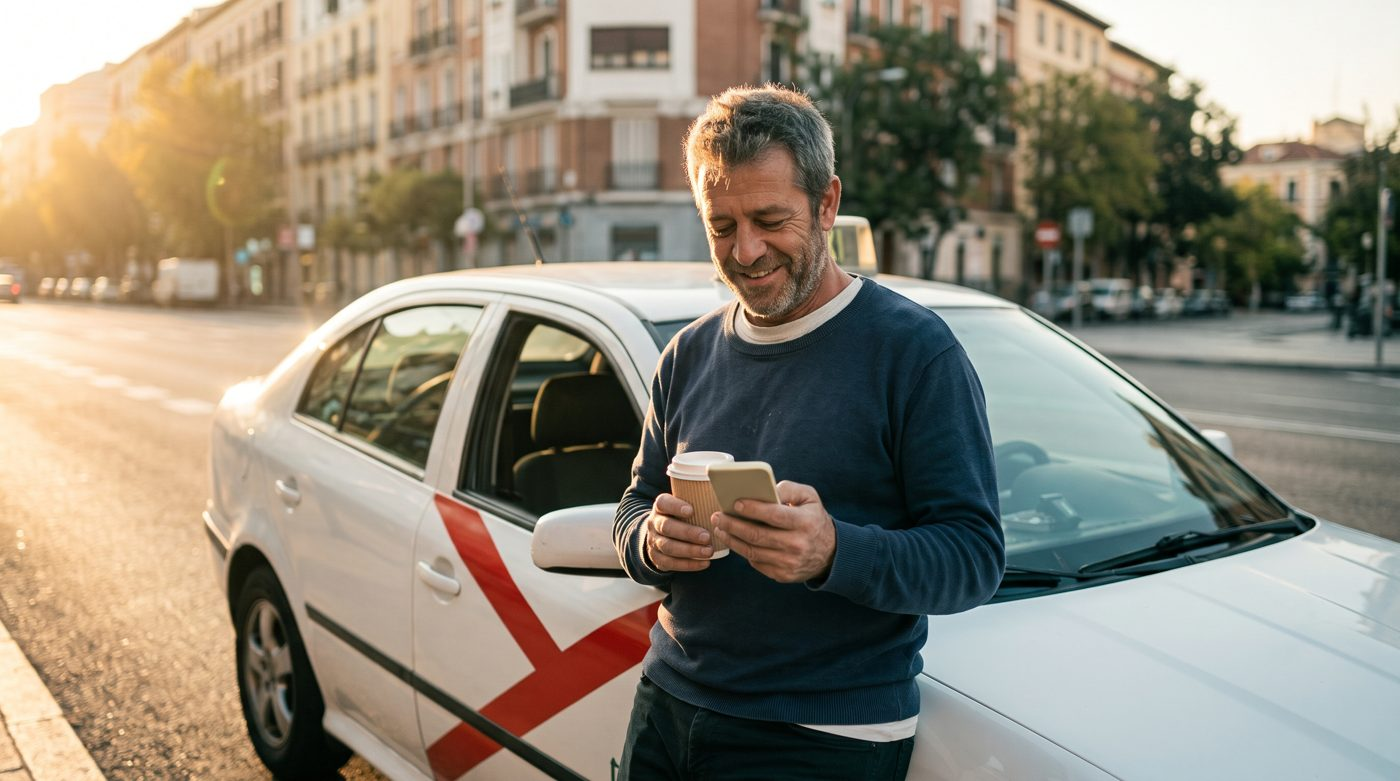
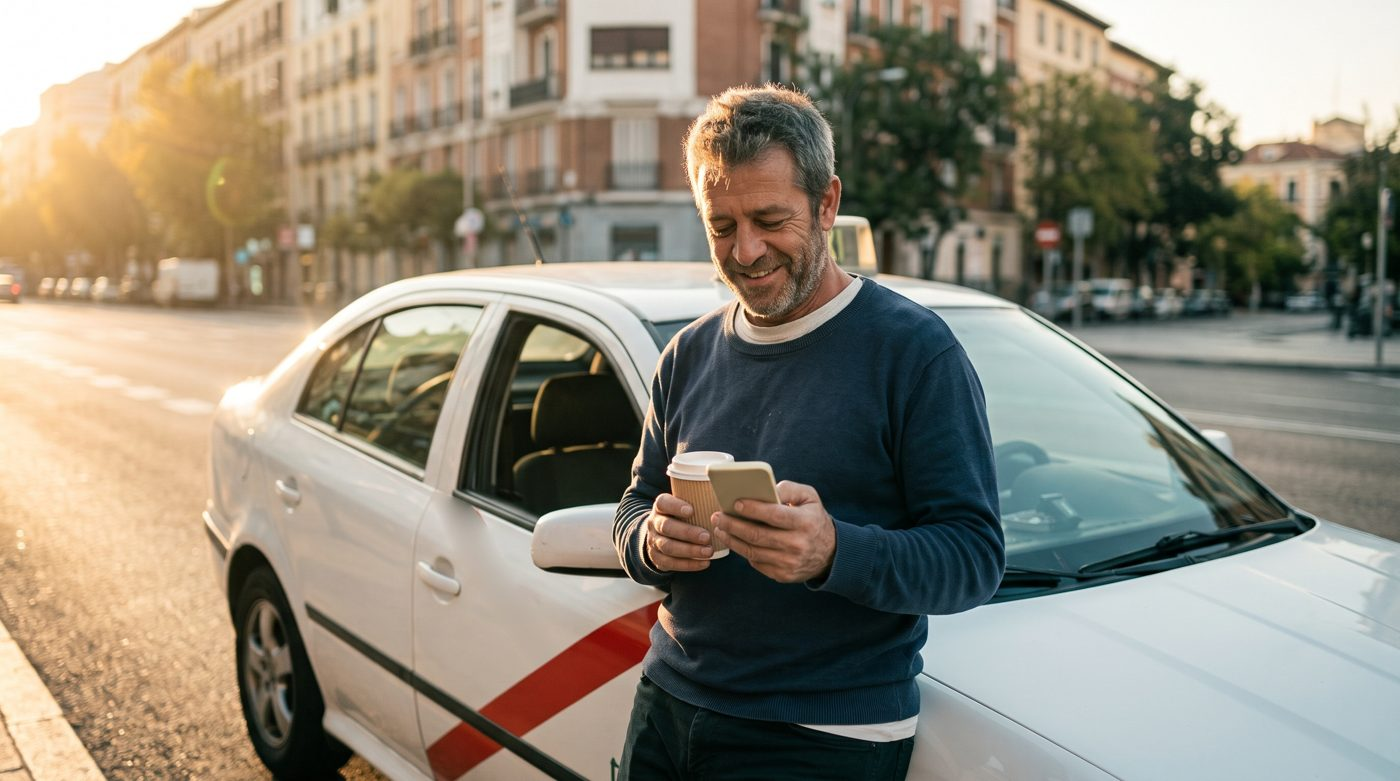
Historia de Pablo más breve, franja del taxi corregida y eslogan sin punto final

Changed region(s): [[0.3071, 0.6146, 0.3993, 0.8604]]

diff --git a/src/pages/Landing.tsx b/src/pages/Landing.tsx
@@ -178,11 +178,8 @@ function Story({ kept }: { kept: number }) {
             El problema
           </p>
           <p className="mt-5 text-lg leading-relaxed text-ink-2">
-            Son las 23:00 y Pablo ha cobrado <strong className="text-ink">180 €</strong>. Pero no sabe cuánto es suyo: mañana tocan
-            gasolina, seguro, taller y la cuota de autónomos, y cada trimestre llega Hacienda.
-          </p>
-          <p className="mt-4 text-lg leading-relaxed text-ink-2">
-            Trabaja más horas que nunca y sigue sin saber <strong className="text-ink">si le compensa</strong>.
+            Cobra <strong className="text-ink">180 €</strong> en diez horas, pero aún faltan gasolina, autónomos y Hacienda.
+            ¿Le <strong className="text-ink">compensa</strong>?
           </p>
         </article>
 
@@ -193,11 +190,8 @@ function Story({ kept }: { kept: number }) {
             La solución
           </p>
           <p className="mt-5 text-lg leading-relaxed text-white/80">
-            Al cerrar el turno apunta su jornada en <strong className="text-white">NetTime</strong> en unos segundos y ve lo que le queda
-            de verdad: <strong className="figure text-mint">{eur(kept)} por hora</strong>.
-          </p>
-          <p className="mt-4 text-lg leading-relaxed text-white/80">
-            Aparta lo de Hacienda cada día y sabe qué turnos le rinden. <strong className="text-white">Trabaja mejor, no más.</strong>
+            Apunta el turno en segundos y ve lo que le queda: <strong className="figure text-mint">{eur(kept)} por hora</strong>.{' '}
+            <strong className="text-white">Trabaja mejor, no más.</strong>
           </p>
         </article>
       </div>
@@ -333,7 +327,7 @@ export default function Landing() {
             <div className="reveal">
               <Eyebrow light>Taxi · VTC · Transporte · Oficios</Eyebrow>
               <h1 className="mt-5 text-[2.9rem] leading-[1.02] font-semibold sm:text-6xl lg:text-7xl">
-                Deja de trabajar<br /><span className="text-mint">a ciegas.</span>
+                Deja de trabajar<br /><span className="text-mint">a ciegas</span>
               </h1>
               <p className="mt-6 max-w-md text-xl leading-relaxed text-white/75">Tu neto real por hora, en segundos.</p>
               <div className="mt-9 flex flex-wrap items-center gap-3">

diff --git a/src/components/Presenter.tsx b/src/components/Presenter.tsx
@@ -60,7 +60,7 @@ const STEPS: Step[] = [
   { title: 'Registra su jornada', caption: 'Pulsa «Registrar jornada»: horas, descanso y los movimientos de ese turno.', after: 'Con las horas trabajadas, NetTime ya sabe cuánto le queda por cada hora.', route: 'resumen', highlight: 'hero', actions: 3, animate: 'shift' },
   { title: '¿Cuánto apartar para Hacienda?', caption: 'La hucha suma el IVA cobrado y la reserva de IRPF, y le dice cuánto le falta por apartar.', route: 'impuestos', highlight: 'hucha', actions: 3 },
   { title: '¿Cuándo le compensa trabajar?', caption: 'Compara sus propias jornadas por día y franja horaria. Sin predicciones inventadas: solo sus datos.', route: 'rentabilidad', highlight: 'insights', actions: 3 },
-  { title: 'Deja de trabajar a ciegas.', caption: 'Mirad vuestro correo: tenéis la demo para usarla cuando queráis.', route: 'resumen', actions: 3, final: true },
+  { title: 'Deja de trabajar a ciegas', caption: 'Mirad vuestro correo: tenéis la demo para usarla cuando queráis.', route: 'resumen', actions: 3, final: true },
 ]
 
 /** Botón que se "pulsa" antes de abrir cada formulario */
@@ -141,7 +141,7 @@ function FinalSlide() {
       <div className="grid w-full max-w-5xl items-center gap-10 md:grid-cols-[1.2fr_1fr]">
         <div>
           <Logo size={64} />
-          <h2 className="mt-8 text-[2.6rem] leading-[1.05] font-semibold sm:text-[4.2rem]">Deja de trabajar<br /><span className="text-mint">a ciegas.</span></h2>
+          <h2 className="mt-8 text-[2.6rem] leading-[1.05] font-semibold sm:text-[4.2rem]">Deja de trabajar<br /><span className="text-mint">a ciegas</span></h2>
           <p className="mt-6 flex items-center gap-3 text-lg text-white/80 sm:text-xl">
             <Mail className="size-6 shrink-0 text-mint" aria-hidden /> Mirad vuestro correo: tenéis la demo para probarla cuando queráis.
           </p>

diff --git a/src/components/Layout.tsx b/src/components/Layout.tsx
@@ -55,7 +55,7 @@ export function Layout({ route, children }: { route: Route; children: ReactNode 
         <a href="#/resumen" className="mb-1 block px-2 text-white" aria-label="NetTime, ir al resumen">
           <Logo size={30} />
         </a>
-        <p className="mb-8 px-2 text-xs text-white/55">Deja de trabajar a ciegas.</p>
+        <p className="mb-8 px-2 text-xs text-white/55">Deja de trabajar a ciegas</p>
         <nav aria-label="Principal" data-tour="nav" className="flex flex-col gap-0.5">
           {ROUTES.map(({ id, label, icon: Icon }) => (
             <a

diff --git a/src/components/Tour.tsx b/src/components/Tour.tsx
@@ -175,7 +175,7 @@ export function Tour() {
         {!rect && (
           <div className="grid-paper flex flex-col items-center gap-2 bg-ink px-6 pt-8 pb-6 text-white">
             <Logo size={44} />
-            <p className="text-sm text-white/70">Deja de trabajar a ciegas.</p>
+            <p className="text-sm text-white/70">Deja de trabajar a ciegas</p>
           </div>
         )}
         <div className="p-5">
